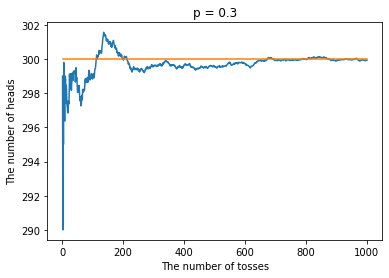
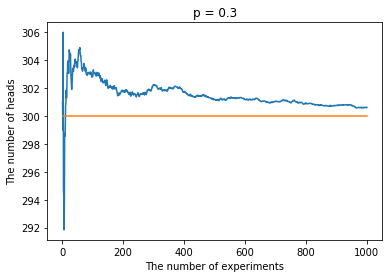
build website

diff --git a/zh/post/coin-toss-experiment/index.html b/zh/post/coin-toss-experiment/index.html
@@ -643,7 +643,7 @@ simulate1(.03, 10000)
     y = moving_avg(heads)
     plt.plot(x, y)
     plt.plot(x, np.ones(1000) * p * n)
-    plt.xlabel('The number of tosses')
+    plt.xlabel('The number of experiments')
     plt.ylabel('The number of heads')
     plt.title(f'p = {p}')
     plt.show()
